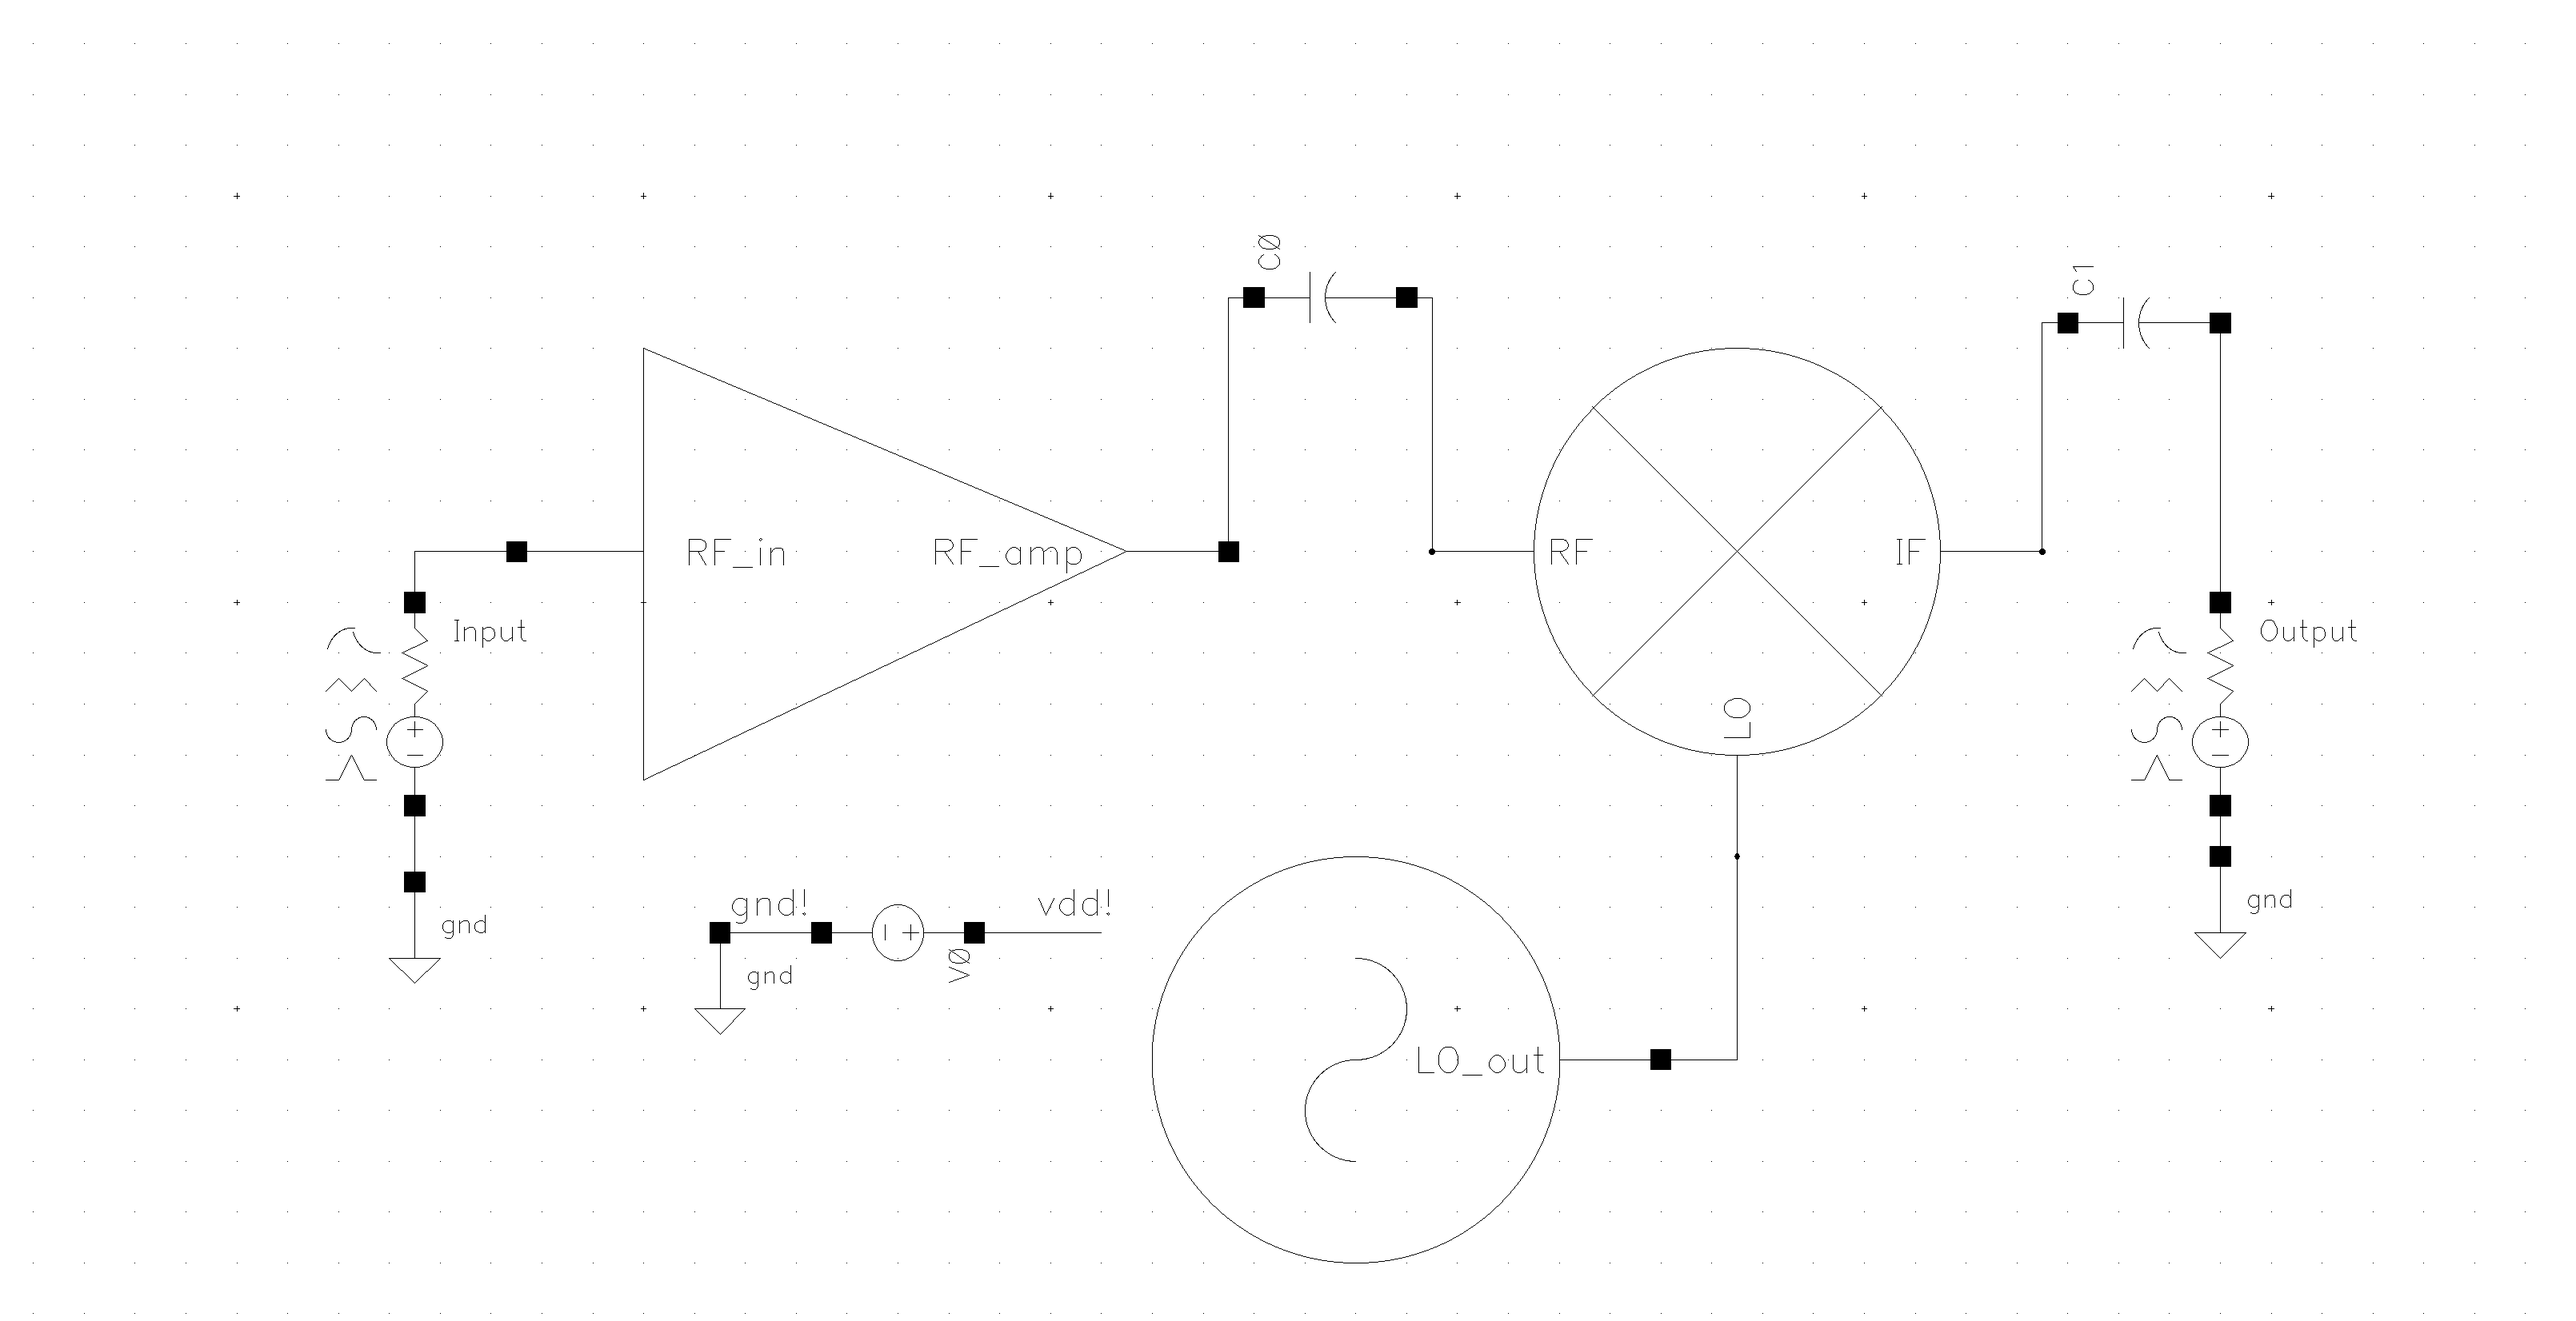
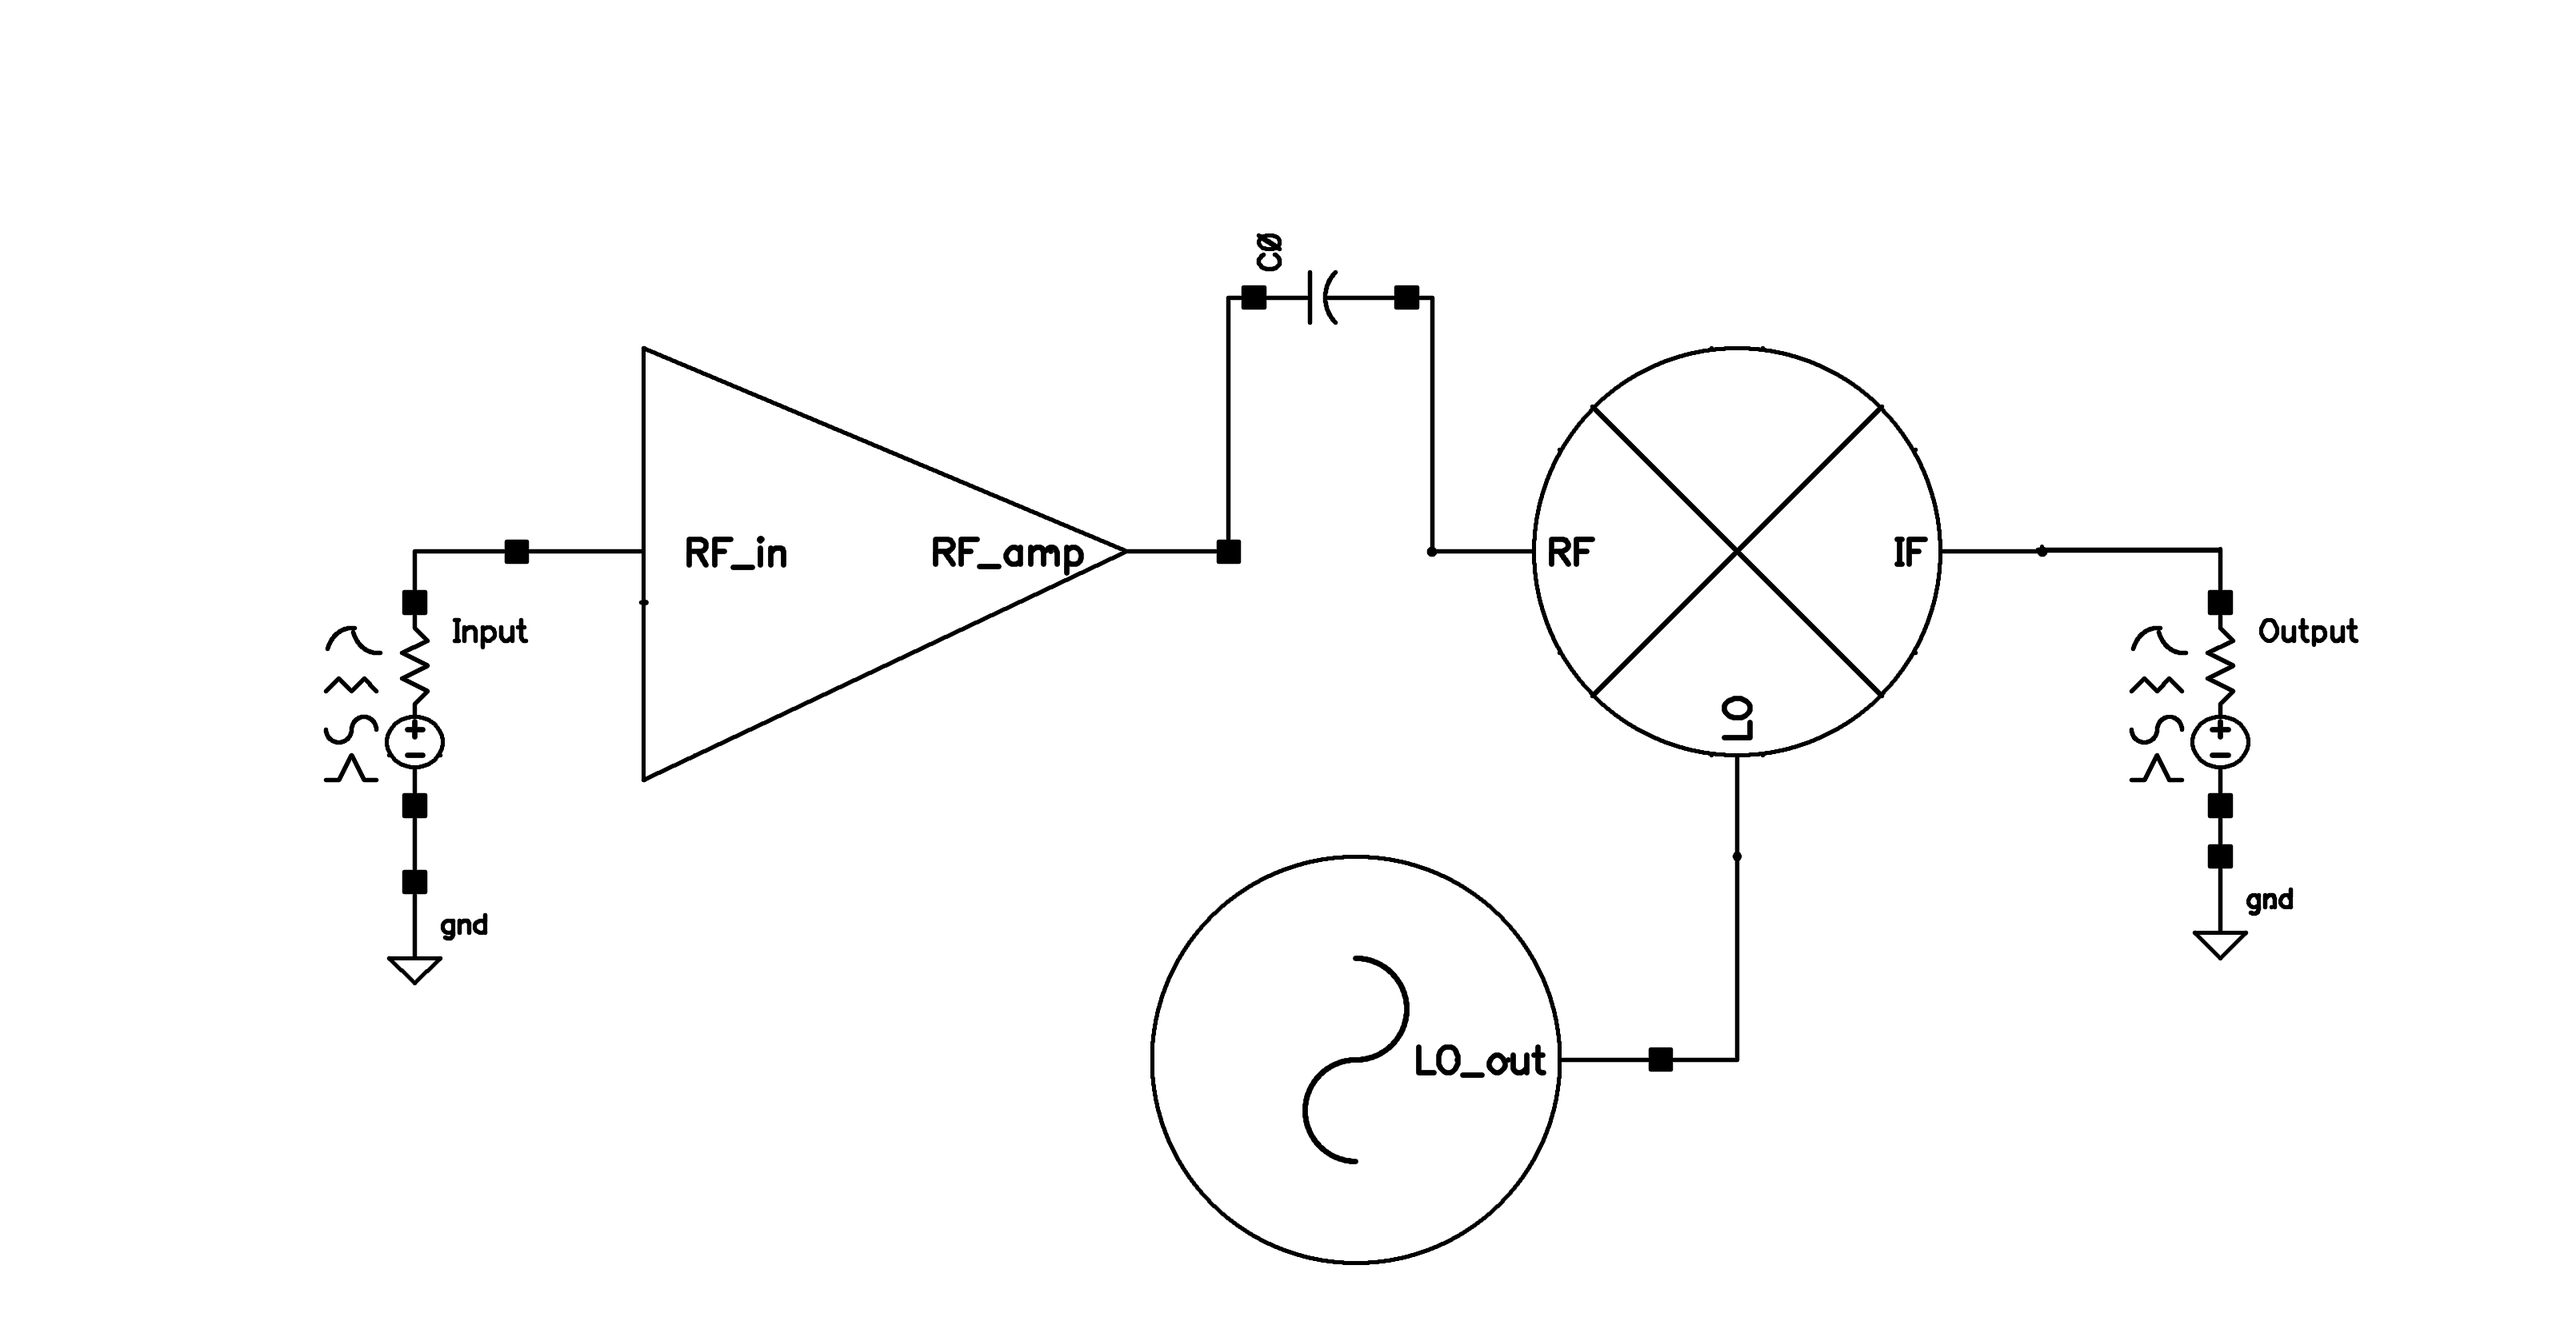
integration trans and noise

diff --git a/integration.tex b/integration.tex
@@ -1,2 +1,30 @@
-\section{Integration}
+\section{System Integration}
+
 describe design procedure (if you had to adjust the parameters in individual blocks to meet the required specifications for the full receiver), provide simulation results verifying the functionality of the receiver, and include a table summarizing receiver’s performance metrics (bonus) 
+
+Since it was known ahead of time that the receiver was to be fully integrated together, a lot of effort was put towards perfecting input and output matching to guarantee maximum power transfer across components. The LNA input, VCO output, and Mixer output are all matched to 50 ohms. The LNA output and Mixer signal input are matched to 500 ohms, we found this to help improve the gain of the Mixer. Since all of the components were matched properly, full system integration was as simple as placing the components together (Fig. ~\ref{fig:fullsystem}). 
+
+\begin{figure}[h]
+   \centering
+    \includegraphics[width=0.5\textwidth]{figures/FullSystem.png}
+    \caption{ Full system circuit integration, comprised of a Low Noise Amplifier, Mixer, and Voltage Controlled Oscillator. Coupling capacitors are used to remove the DC offset from the LNA.  }
+    \label{fig:fullsystem}
+\end{figure}
+
+In order to test the system, a transient analysis was preformed. An initial input signal of 1mV at 403.5MHz was used to test the system. Fig. ~\ref{fig:fullsystemtrans} shows a clean output response from the system that swings from 55mV to -70mV at 3.5MHz. This leads to an overall swing of 62.5mV, therefore the conversion gain of the entire system is $20log(\frac{62.5mV}{1mV})$ or {\bf 35.92 dB}.
+
+\begin{figure}[h]
+   \centering
+    \includegraphics[width=0.5\textwidth]{figures/FullSystemTrans}
+    \caption{ Transient response of receiver after 357ns startup time }
+    \label{fig:fullsystemtrans}
+\end{figure}
+
+In order to measure the noise figure, the oscillator was removed and an ideal source was used instead. Although the oscillator in theory would contribute slightly to the noise, it was determined that due to its low LO-IF feed-through that the oscillator has a negligible effect to the total noise. Fig. ~\ref{fig:fullsystemnoise} shows the total noise of the system, at the corner frequency of the output, it was determined that the total noise was \bf{3.65 dB}.
+
+\begin{figure}[h]
+   \centering
+    \includegraphics[width=0.5\textwidth]{figures/FullSysNoiseFigure.png}
+    \caption{Full system noise due to LNA and Mixer }
+    \label{fig:fullsystemnoise}
+\end{figure}
